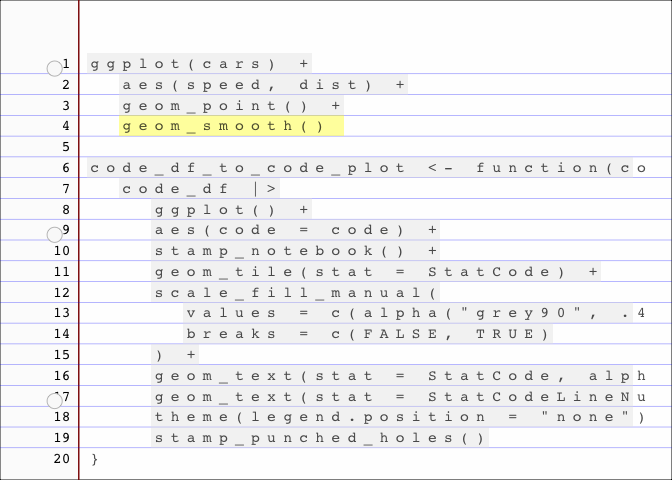
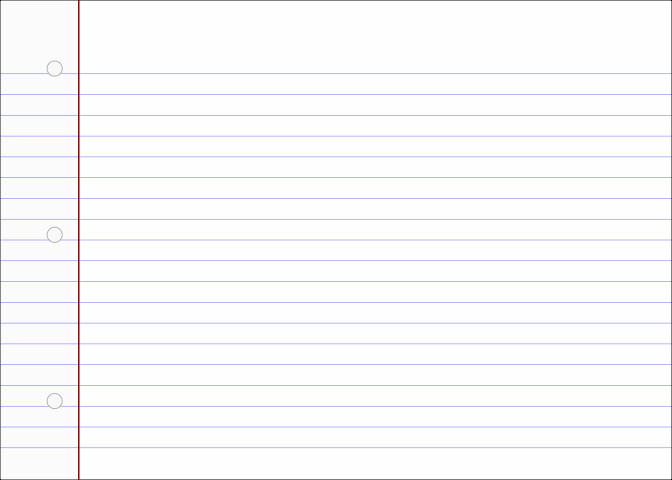
adding some table and df experiments

diff --git a/README.md b/README.md
@@ -79,6 +79,8 @@ clearhistory <- function() {
 
 # `StatCode` & `StatCodeLineNumbers`
 
+<details>
+
 ``` r
 
 # readLines(temp) |> flipbookr:::code_parse()
@@ -128,6 +130,8 @@ StatCodeLineNumbers <- ggproto("StatCodeLineNumbers", Stat,
                     )
 ```
 
+</details>
+
 # `code_file_to_code_df`
 
 ``` r
@@ -135,15 +139,26 @@ code_file_to_code_df <- function(filepath = ".Rhistory"){
   
   readLines(filepath) |> 
     paste(collapse = "\n") |> 
-    stringr::str_remove("ggram\\(.+\\)|ggram\\(\\)") |>
     styler::style_text() |> 
     as.character() |>
-    data.frame(code = _) 
+    data.frame(code = _) |>
+    filter(!stringr::str_detect(code, "^ggram.+"))
   
 }
 ```
 
 ``` r
+# ggram:::clearhistory()
+
+ggplot(cars) + 
+  aes(speed, dist) + 
+  geom_point()
+```
+
+<img src="man/figures/README-unnamed-chunk-6-1.png" width="100%" />
+
+``` r
+
 code_file_to_code_df() |> 
   compute_panel_code()
 #> # A tibble: 4,058 × 7
@@ -170,7 +185,7 @@ code_file_to_code_df() |>
   scale_y_reverse()
 ```
 
-<img src="man/figures/README-unnamed-chunk-6-1.png" width="100%" />
+<img src="man/figures/README-unnamed-chunk-6-2.png" width="100%" />
 
 # `stamp_notebook`
 
@@ -205,7 +220,42 @@ stamp_punched_holes <- function(){
    )
   
 }
+
+
+stamp_graph_paper <- function(){
+  
+  list(
+    
+    theme_void(),
+    theme(plot.background = element_rect(fill = alpha("whitesmoke", .1))),
+    scale_y_reverse(limits = c(-1, 20)),
+    # coord_equal(),
+    scale_x_continuous(limits = c(-3, 35)),
+    # annotate("rect", xmin = -Inf, xmax = 0, ymin = -Inf, ymax = Inf, 
+             # fill = alpha("grey90", .1)),
+    geom_vline(xintercept = -3:35, color = "blue", alpha = .5, linewidth = .2) ,
+    geom_hline(yintercept = -1:29 + .5, color = "blue", linewidth = .2, alpha = .5),
+    NULL
+  )
+  
+}
 ```
+
+``` r
+ggplot() + 
+  stamp_notebook() + 
+  stamp_punched_holes()
+```
+
+<img src="man/figures/README-unnamed-chunk-7-1.png" width="100%" />
+
+``` r
+
+ggplot() + 
+  stamp_graph_paper()
+```
+
+<img src="man/figures/README-unnamed-chunk-7-2.png" width="100%" />
 
 ``` r
 
@@ -218,7 +268,7 @@ code_df_to_code_plot <- function(code_df){
     geom_tile(stat = StatCode) + 
     scale_fill_manual(values = c(alpha("grey90",.4), alpha("yellow", .4)), 
                       breaks = c(FALSE, TRUE)) +
-    geom_text(stat = StatCode, alpha = .7, family = "mono") +
+    geom_text(stat = StatCode, alpha = .7, family = "mono", fontface = "italic") +
     geom_text(stat = StatCodeLineNumbers, family = "mono") +
     theme(legend.position = "none") + 
     stamp_punched_holes()
@@ -231,7 +281,7 @@ code_file_to_code_df() |>
   code_df_to_code_plot()
 ```
 
-<img src="man/figures/README-unnamed-chunk-7-1.png" width="100%" />
+<img src="man/figures/README-unnamed-chunk-8-1.png" width="100%" />
 
 ## ggram with patchwork
 
@@ -248,7 +298,7 @@ ggram <- function(title = NULL, widths = c(1,1), ...){
     code_df_to_code_plot()
   
   
-  code_plot + plot + patchwork::plot_layout(widths = widths) +
+  patchwork::free(code_plot) + plot + patchwork::plot_layout(widths = widths) +
     patchwork::plot_annotation(title = title, ...) & 
     theme(plot.background = element_rect(colour = "black", linewidth = .05))
   
@@ -296,4 +346,8 @@ knitrExtra::chunk_to_dir(c("clearhistory", "StatCode", "stamp_notebook", "ggram"
 ``` r
 devtools::check(".")
 devtools::install(pkg = ".", upgrade = "never") 
+```
+
+``` r
+knitr::knit_exit()
 ```
